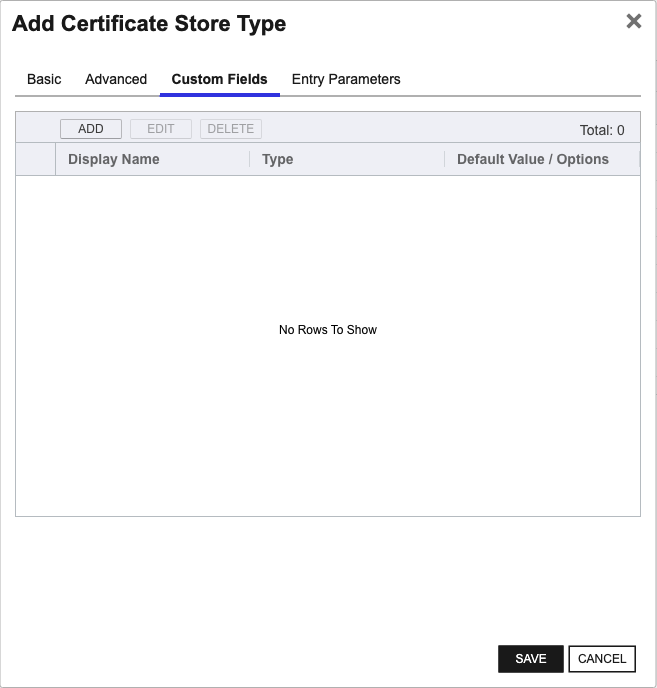
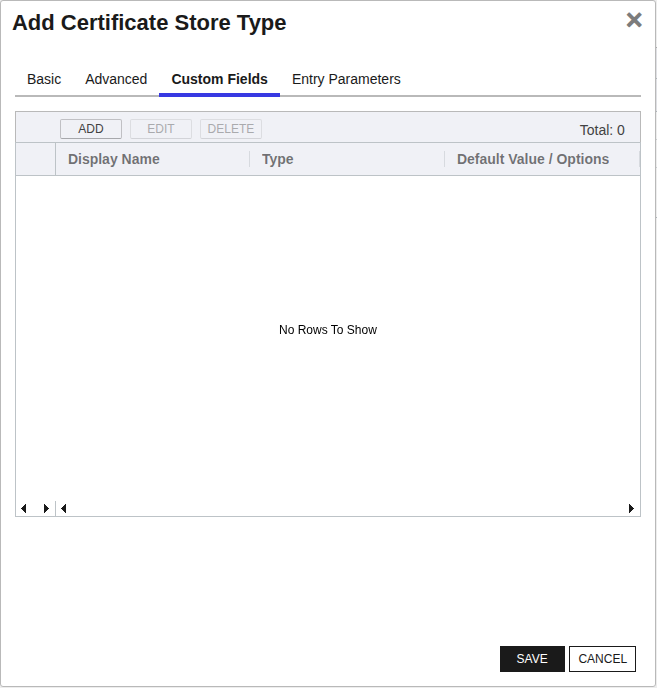
Update generated docs

diff --git a/README.md b/README.md
@@ -214,12 +214,13 @@ the Keyfactor Command Portal
 
     Click the Add button to add a new Certificate Store. Use the table below to populate the **Attributes** in the **Add** form.
 
-   | Attribute | Description |
-   | --------- | ----------- |
+   | Attribute | Description                                             |
+   | --------- |---------------------------------------------------------|
    | Category | Select "Imperva" or the customized certificate store name from the previous step. |
    | Container | Optional container to associate certificate store with. |
    | Client Machine | The URL that will be used as the base URL for Imperva endpoint calls.  Should be https://my.imperva.com |
    | Store Path | Your Imperva account id.  Please refer to the [Imperva documentation](https://docs.imperva.com/howto/bd68301b) as to how to find your Imperva account id. |
+   | Store Password | Your Imperva API id and API key concatenated with a comma (,}.  For example: 12345,12345678-1234-1234-1234-123456789ABC.  Please refer to the [Imperva documentation](https://docs.imperva.com/bundle/cloud-application-security/page/settings/api-keys.htm#:~:text=In%20the%20Cloud%20Security%20Console%20top%20menu%20bar%2C%20click%20Account,to%20create%20a%20new%20key.) as to how to create an API id and key. |
    | Orchestrator | Select an approved orchestrator capable of managing `Imperva` certificates. Specifically, one with the `Imperva` capability. |
 
 </details>
@@ -245,6 +246,7 @@ the Keyfactor Command Portal
    | Container | Optional container to associate certificate store with. |
    | Client Machine | The URL that will be used as the base URL for Imperva endpoint calls.  Should be https://my.imperva.com |
    | Store Path | Your Imperva account id.  Please refer to the [Imperva documentation](https://docs.imperva.com/howto/bd68301b) as to how to find your Imperva account id. |
+   | Store Password | Your Imperva API id and API key concatenated with a comma (,}.  For example: 12345,12345678-1234-1234-1234-123456789ABC.  Please refer to the [Imperva documentation](https://docs.imperva.com/bundle/cloud-application-security/page/settings/api-keys.htm#:~:text=In%20the%20Cloud%20Security%20Console%20top%20menu%20bar%2C%20click%20Account,to%20create%20a%20new%20key.) as to how to create an API id and key. |
    | Orchestrator | Select an approved orchestrator capable of managing `Imperva` certificates. Specifically, one with the `Imperva` capability. |
 
 3. **Import the CSV file to create the certificate stores**
@@ -263,7 +265,7 @@ If a PAM provider was installed _on the Universal Orchestrator_ in the [Installa
 
    | Attribute | Description |
    | --------- | ----------- |
-   | StorePassword | Password to use when reading/writing to store |
+   | StorePassword | Your Imperva API id and API key concatenated with a comma (,}.  For example: 12345,12345678-1234-1234-1234-123456789ABC.  Please refer to the [Imperva documentation](https://docs.imperva.com/bundle/cloud-application-security/page/settings/api-keys.htm#:~:text=In%20the%20Cloud%20Security%20Console%20top%20menu%20bar%2C%20click%20Account,to%20create%20a%20new%20key.) as to how to create an API id and key. |
 
 Please refer to the **Universal Orchestrator (remote)** usage section ([PAM providers on the Keyfactor Integration Catalog](https://keyfactor.github.io/integrations-catalog/content/pam)) for your selected PAM provider for instructions on how to load attributes orchestrator-side.
 > Any secret can be rendered by a PAM provider _installed on the Keyfactor Command server_. The above parameters are specific to attributes that can be fetched by an installed PAM provider running on the Universal Orchestrator server itself.
